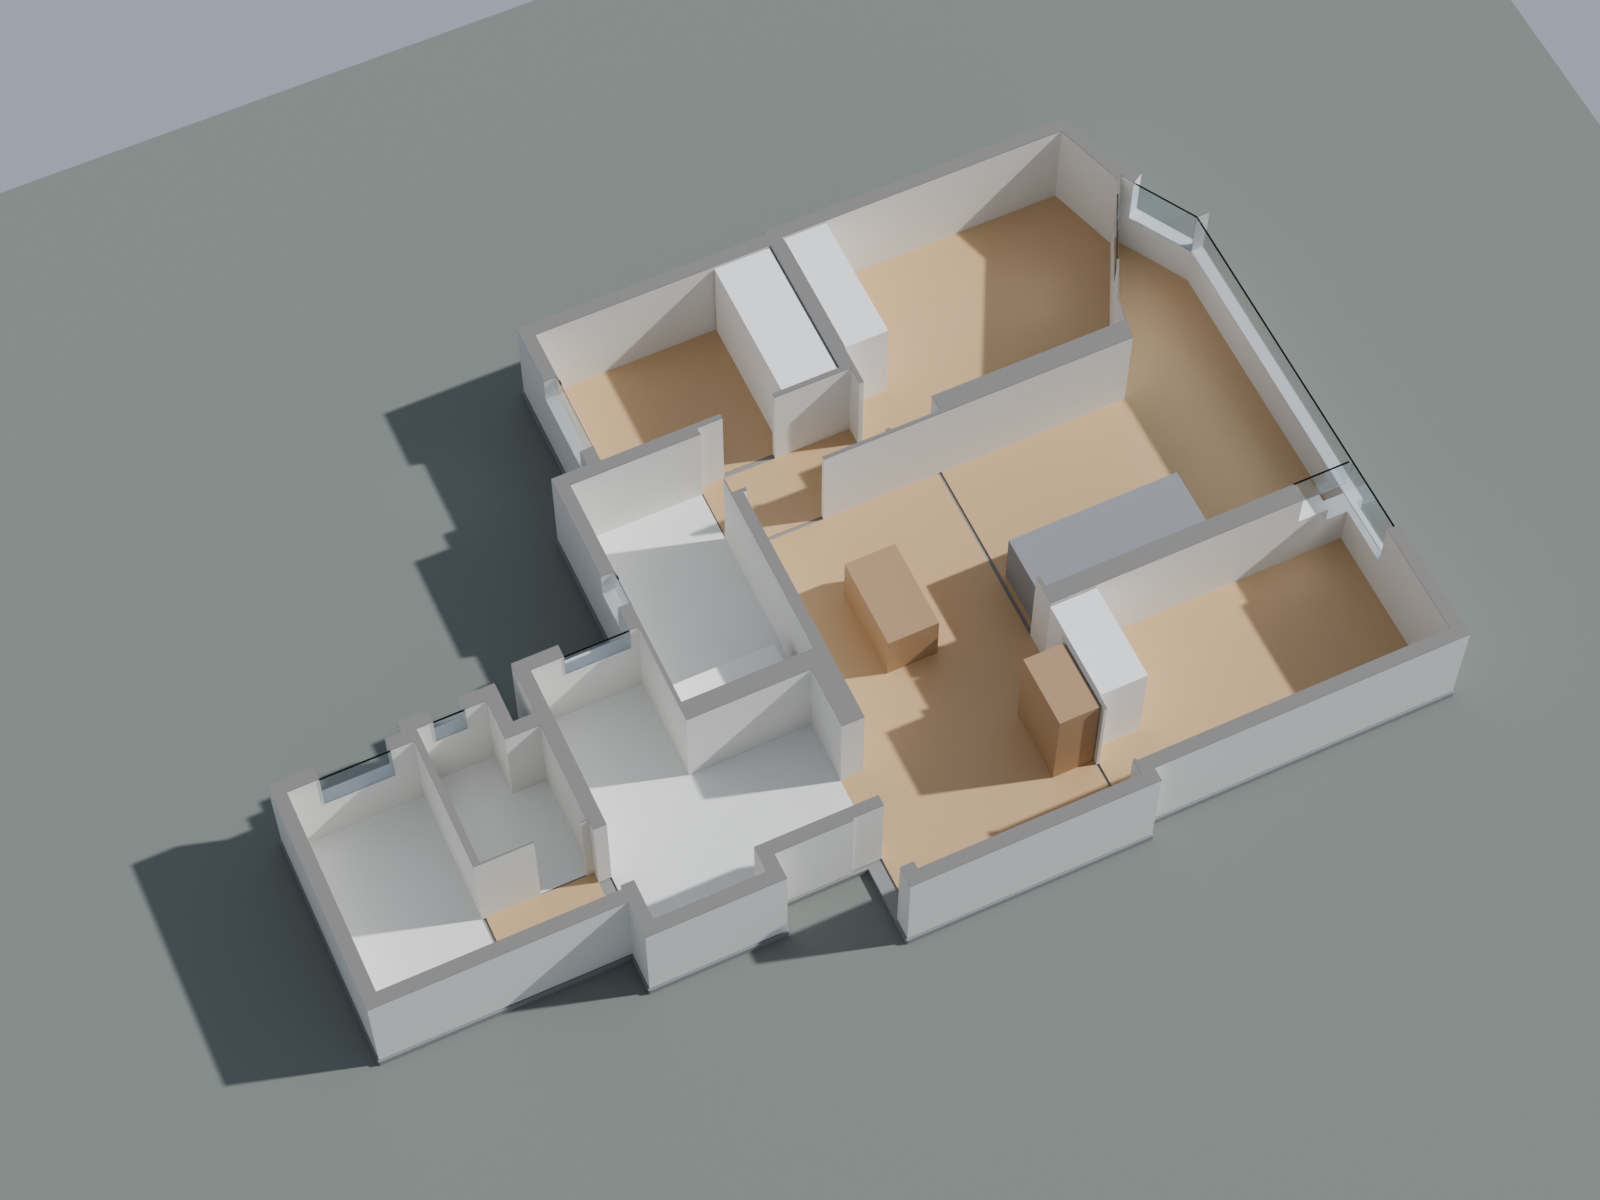
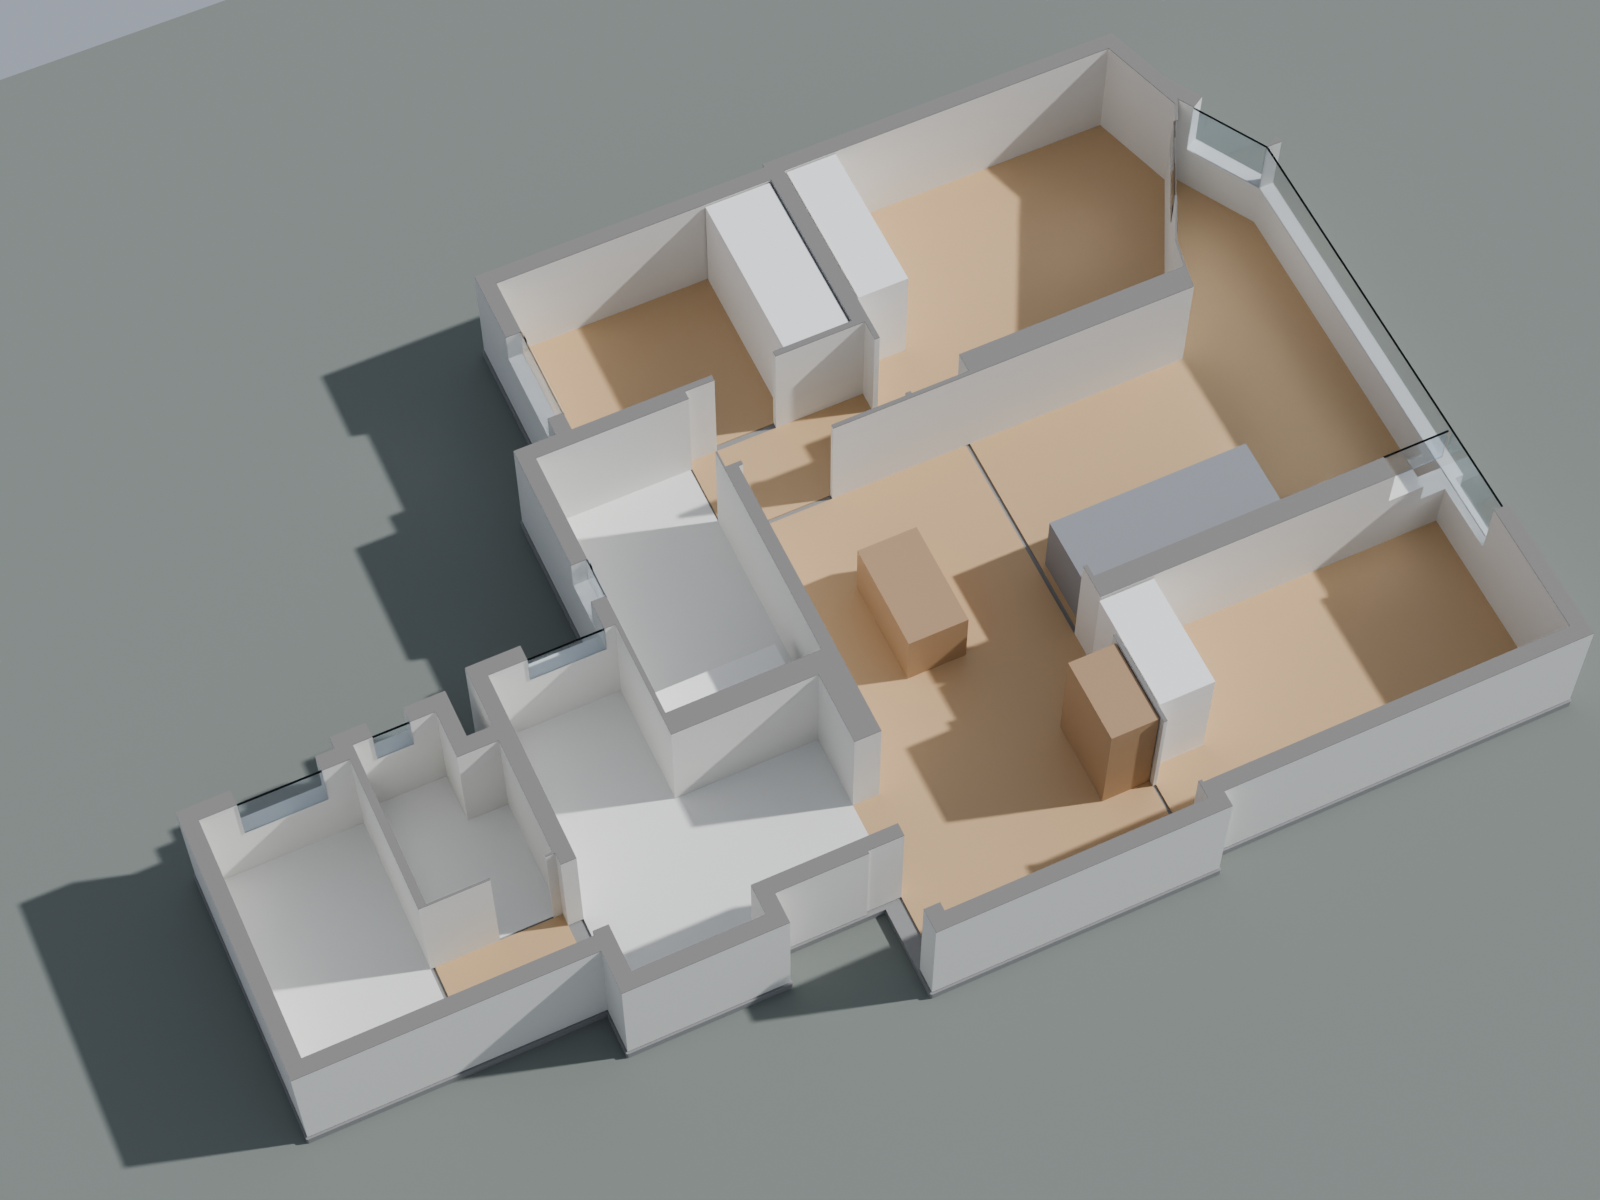
Opción --camara para elegir el lado de la vista y encuadre ajustado a la casa
Renders de comparación con el ventanal abajo (desde el sur).

Claude-Session: https://claude.ai/code/session_016TCv93ycWkP81JCtPPZEuX

diff --git a/casa/modelo.py b/casa/modelo.py
@@ -18,6 +18,7 @@ ap.add_argument('--blend'); ap.add_argument('--muestras', type=int, default=48)
 ap.add_argument('--corte', type=float, default=1.40)
 ap.add_argument('--res', default='1600x1200')
 ap.add_argument('--sol', default='200,40', help='azimut,elevación del sol (grados)')
+ap.add_argument('--camara', type=float, default=-25, help='lado desde el que mira la cámara: ángulo en el plano (0 = oeste, 90 = sur), ya con el giro de 25°')
 a = ap.parse_args()
 L = json.load(open(a.layout)); CORTE = a.corte; M = 0.01  # cm → m
 EXT = 0.18  # grosor de los muros exteriores (m)
@@ -117,8 +118,8 @@ w.node_tree.nodes['Background'].inputs['Strength'].default_value = 0.45
 # ---------- cámara de diorama: 30° desde la vertical, girada 25° ----------
 minx, miny, maxx, maxy = huella.bounds
 c = Vector(((minx + maxx) / 2, (miny + maxy) / 2, 0.3))
-t, r = math.radians(30), math.radians(-25)
-hdir = Vector((math.cos(r), math.sin(r), 0))  # desde el oeste, un poco al norte
+t, r = math.radians(30), math.radians(a.camara)
+hdir = Vector((math.cos(r), math.sin(r), 0))  # -25 = desde el oeste; 65 = desde el sur (ventanal abajo)
 cam = bpy.data.cameras.new('cam'); cam.lens = 85; co = bpy.data.objects.new('cam', cam); sc.collection.objects.link(co)
 D = 42.0
 co.location = c + D * (math.sin(t) * hdir + Vector((0, 0, math.cos(t))))
@@ -128,12 +129,12 @@ sc.camera = co
 bpy.context.view_layer.update()
 from bpy_extras.object_utils import world_to_camera_view
 rx, ry = map(int, a.res.split('x')); sc.render.resolution_x, sc.render.resolution_y = rx, ry
-pts = [Vector((x, y, z)) for x in (minx, maxx) for y in (miny, maxy) for z in (0, CORTE)]
+pts = [Vector((x, y, z)) for x, y in huella.exterior.coords for z in (0, CORTE)]
 for _ in range(6):
     bpy.context.view_layer.update()
     uv = [world_to_camera_view(sc, co, p) for p in pts]
     span = max(max(u.x for u in uv) - min(u.x for u in uv), max(u.y for u in uv) - min(u.y for u in uv))
-    co.location = c + (co.location - c) * (span / 0.88)
+    co.location = c + (co.location - c) * (span / 0.92)
     mid = Vector((sum(u.x for u in uv) / len(uv) - 0.5, sum(u.y for u in uv) / len(uv) - 0.5))
     cam.shift_x, cam.shift_y = mid.x, mid.y * ry / rx
 
